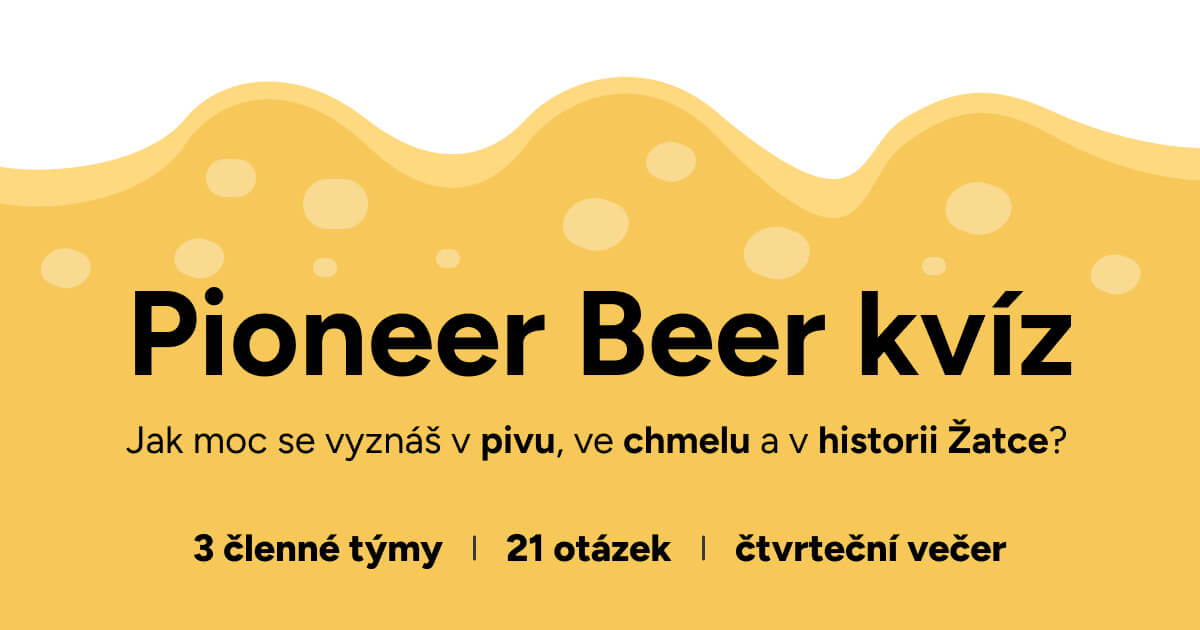
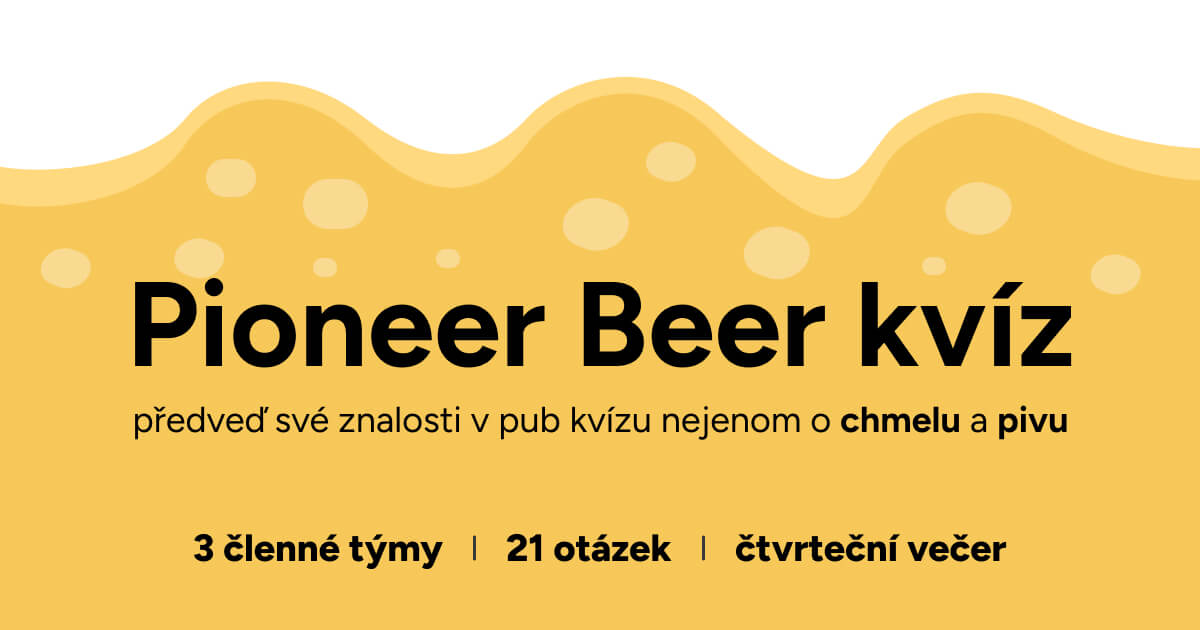
update og_image + description

diff --git a/resources/js/App.vue b/resources/js/App.vue
@@ -13,10 +13,7 @@
                 Pioneer Beer kvíz
             </h1>
             <p class="text-lg px-2 lg:text-xl text-center">
-                Soutěž, která prověří, jak se vyznáš v
-                <span class="font-black">pivu</span>, ve
-                <span class="font-black">chmelu</span> a v
-                <span class="font-black">historii Žatce</span>!
+              Předveď své znalosti v pub kvízu nejenom o <span class="font-black">chmelu</span> a <span class="font-black">pivu</span>!
             </p>
 
             <div

diff --git a/resources/views/welcome.blade.php b/resources/views/welcome.blade.php
@@ -7,22 +7,22 @@
 
     <title>Pioneer Beer Quiz</title>
 
-    <meta name="description" content="Soutěž, která prověří, jak se vyznáš v pivu, ve chmelu a v historii Žatce!">
+    <meta name="description" content="Předveď své znalosti v pub kvízu nejenom o chmelu a pivu!">
 
     <!-- Open Graph (Facebook, WhatsApp, LinkedIn...) -->
     <meta property="og:type" content="website">
     <meta property="og:url" content="https://beer-quiz.filipurban.cz/">
-    <meta property="og:title" content="Pioneer Beer Kvíz Žatec">
-    <meta property="og:description" content="Soutěž, která prověří, jak se vyznáš v pivu, ve chmelu a v historii Žatce!">
+    <meta property="og:title" content="Pioneer Beer kvíz Žatec">
+    <meta property="og:description" content="Předveď své znalosti v pub kvízu nejenom o chmelu a pivu!">
     <meta property="og:image" content="{{ asset('/images/og_image.jpg') }}">
-    <meta property="og:site_name" content="Pioneer Beer Kvíz Žatec">
+    <meta property="og:site_name" content="Pioneer Beer kvíz">
     <meta property="og:locale" content="cs_CZ">
 
     <!-- Twitter Card -->
     <meta name="twitter:card" content="summary_large_image">
     <meta name="twitter:url" content="https://beer-quiz.filipurban.cz/">
-    <meta name="twitter:title" content="Pioneer Beer Kvíz Žatec">
-    <meta name="twitter:description" content="Soutěž, která prověří, jak se vyznáš v pivu, ve chmelu a v historii Žatce!">
+    <meta name="twitter:title" content="Pioneer Beer kvíz Žatec">
+    <meta name="twitter:description" content="Předveď své znalosti v pub kvízu nejenom o chmelu a pivu!">
     <meta name="twitter:image" content="{{ asset('/images/og_image.jpg') }}">
 
     <!-- Schema.org (pro lepší zobrazení ve vyhledávačích) -->
@@ -30,8 +30,8 @@
         {
           "@context": "https://schema.org",
           "@type": "Event",
-          "name": "Pioneer Beer Kvíz Žatec",
-          "description": "Soutěž, která prověří, jak se vyznáš v pivu, ve chmelu a v historii Žatce!",
+          "name": "Pioneer Beer kvíz Žatec",
+          "description": "Předveď své znalosti v pub kvízu nejenom o chmelu a pivu!",
           "image": "{{ asset('/images/og_image.jpg') }}",
           "eventAttendanceMode": "https://schema.org/OfflineEventAttendanceMode",
           "eventStatus": "https://schema.org/EventScheduled",
